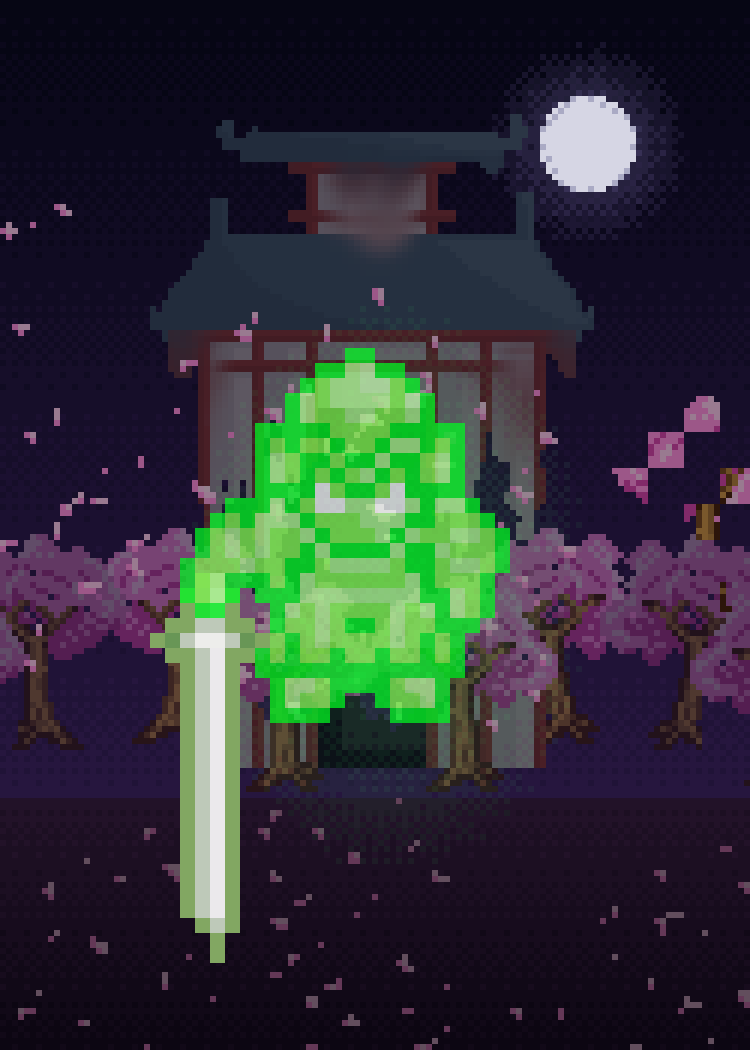
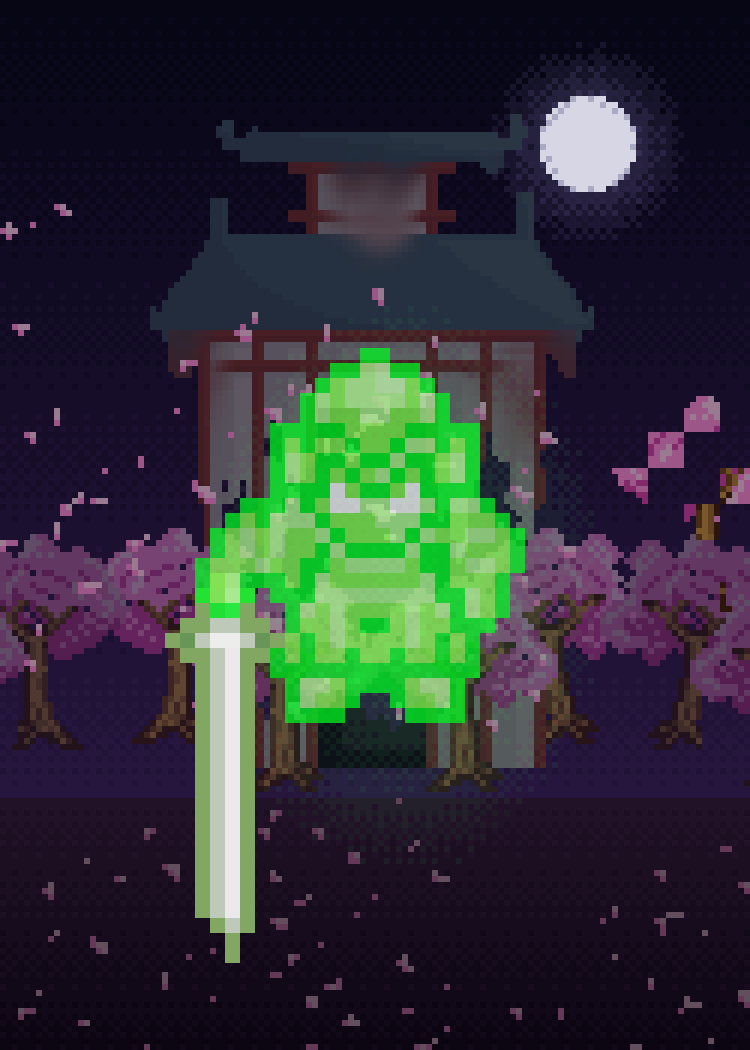
Runde 6: Überarbeitung nach Nutzer-Feedback (Zwischenstand)
Claude-Session: https://claude.ai/code/session_01TEnvTzH2xD44R6Unjv7vDo

Changed region(s): [[0.184, 0.3352, 0.7053, 0.9143]]

diff --git a/data/sleeve-proposals/runde6/generator/s12_crystal_eve.py b/data/sleeve-proposals/runde6/generator/s12_crystal_eve.py
@@ -57,7 +57,18 @@ from PIL import Image
 _anim = np.array(Image.open('/home/user/PixelParties/data/hero-animations/mary-crestmas.png').convert('RGBA'))
 _f0 = _anim[:, 0:40].copy()
 _f0[..., 3] = np.where(_f0[..., 3] >= 128, 255, 0)
-mary = sorted(parts(_f0, dil=1), key=lambda p: -(p[..., 3] > 0).sum())[0]
+import cv2
+_m = (_f0[..., 3] > 0).astype(np.uint8)
+_n, _lab, _st, _ = cv2.connectedComponentsWithStats(_m, connectivity=8)
+_big = 1 + int(np.argmax(_st[1:, cv2.CC_STAT_AREA]))
+bx0, by0, bw, bh = _st[_big, :4]
+_keep = np.zeros(_m.shape, bool)
+for k in range(1, _n):                         # Hauptfigur + anliegende Teile (Mützen-Bommel), keine Noten
+    x, y, w, h = _st[k, :4]
+    if x >= bx0 - 2 and x + w <= bx0 + bw + 2 and y >= by0 - 3 and y + h <= by0 + bh + 2: _keep |= _lab == k
+_f0[~_keep, 3] = 0
+ys, xs = np.nonzero(_keep)
+mary = _f0[ys.min():ys.max() + 1, xs.min():xs.max() + 1]
 _cache = os.path.join(os.path.dirname(os.path.abspath(__file__)), 'sprites6', 'o12_mary.png')
 Image.fromarray(mary).save(_cache)
 well = sprite('o12_well16', 'MotiveBritain', [16])        # Brunnen ohne Funkeln
@@ -154,9 +165,9 @@ wcx = WX3 + (wcols.min() + wcols.max() + 1) / 2
 wby = WY3 + well.shape[0] - 3
 for y in range(int(wby - 4), int(wby + 4)):
     for x in range(W3):
-        d = ((x + 0.5 - wcx) / 27) ** 2 + ((y + 0.5 - wby) / 3.6) ** 2
+        d = ((x + 0.5 - wcx) / 23) ** 2 + ((y + 0.5 - wby) / 3.2) ** 2
         if d < 1:
-            mid[y, x, :3] = (26, 34, 70); mid[y, x, 3] = 110
+            mid[y, x, :3] = (26, 34, 70); mid[y, x, 3] = 90
 put(mid, well, WX3, WY3)
 sm = sparks[..., 3] > 0
 for (j, i) in zip(*np.nonzero(sm)):

diff --git a/data/sleeve-proposals/runde6/generator/s24_afterimage.py b/data/sleeve-proposals/runde6/generator/s24_afterimage.py
@@ -121,7 +121,7 @@ blit(cv, bg, 2)
 # ---------------------------------------------------------------- Daiyo 5×
 k = 5
 dw, dh = (X1 - X0) * k, (Y1 - Y0) * k
-DX, DY = 50, 116                           # Gesichtsmitte (Szene x = 122, zwischen den Augen) auf x = 375 von 750
+DX, DY = 55, 116                           # Gesichtsmitte (zwischen den Augen, Szene x = 121) auf x = 375 von 750
 # grüner Schein hinter Daiyo und auf dem Boden (Raster 2×, gedithert)
 gx, gy = (DX + 7 * k + 45) / 2, (DY + 80) / 2
 for y in range(GH):

diff --git a/data/sleeve-proposals/runde6/notes_H.md b/data/sleeve-proposals/runde6/notes_H.md
@@ -1,6 +1,6 @@
 # Notizen Block H (41–44)
 NN | English Name | Gegner | Held | Idee | Skalierung | Quellen | Rahmen
-41 | Rampart of Deri | Steam Dwarf Mines | Layn, Defender of Deri | Porträt über die Brüstung: Layn (Base, Krone mit Rubin und Quasten, Hände auf der Zinne) bewacht hinter der grauen Zinnenmauer seiner Karte die Minenhalle der Steam Dwarfs, die sich hinter ihm als eine Tiefe öffnet: vorn eine steinerne Förderbrücke mit Schienen, deren Pfeiler im Lavafluss am Grund stehen, darauf als Blickpunkt der Steam Dwarf Dragon Pilot (Cover); weiter hinten auf zwei versetzten Felsbänken Miner (bohrt über die Kante in den Fels) und Brewer mit aufsteigendem Dampf (überarbeitet nach Review) | Felswand, Felsbänke, Miner, Brewer, Dampf, Lavafluss 2×; Förderbrücke, Pfeiler, Dragon Pilot 3×; Layn + Brüstung 5× | MotiveDeri 250 „Layn“, 245 „Layn #1“, 246 „Zinnen“ (gegen Sichtbar #83 pixelgleich); MotiveSteamDwarfs 445 (Felswand-Kachel), 444 (Lava-Kachel), Miner [437–439], Brewer [440, 441], Dragon Pilot [429], Dampf 431 | Rahmen: industrial/iron/lava
+41 | Rampart of Deri | Steam Dwarf Mines | Layn, Defender of Deri | Porträt über die Brüstung: Layn (Base, Krone mit Rubin und Quasten, Hände auf der Zinne) bewacht hinter der grauen Zinnenmauer seiner Karte die Minenhalle der Steam Dwarfs, die sich hinter ihm als eine Tiefe öffnet: vorn eine steinerne Förderbrücke mit Schienen, deren Pfeiler im Lavafluss am Grund stehen, darauf als Blickpunkt der Steam Dwarf Dragon Pilot (Cover); weiter hinten auf zwei versetzten Felsbänken der Steam Dwarf Exterminator (sein Flammenstrahl schießt über die Kante hinab; statt des Miners, Nutzer-Feedback) und der Brewer mit aufsteigendem Dampf | Felswand, Felsbänke, Miner, Brewer, Dampf, Lavafluss 2×; Förderbrücke, Pfeiler, Dragon Pilot 3×; Layn + Brüstung 5× | MotiveDeri 250 „Layn“, 245 „Layn #1“, 246 „Zinnen“ (gegen Sichtbar #83 pixelgleich); MotiveSteamDwarfs 445 (Felswand-Kachel), 444 (Lava-Kachel), Exterminator [433, 434], Brewer [440, 441], Dragon Pilot [429], Dampf 431 | Rahmen: industrial/iron/lava
 42 | Sunforged Summit | Sun Fencer Frenzy | Taio, the Sun Fencer | Gegenlicht/Action: Taio steht im Morgengrauen auf dem Gipfel seines Vulkans, umgeben vom Flammenring seiner Base-Karte, und reckt The Sun Sword empor – die Klingenspitze sitzt genau vor der aufgehenden Sonne; unter seinen Füßen glüht der Riss des Mountain's Heart, auf zwei Felsnasen wachen die Wasserspeier mit roten Augen aus seiner Karte | Himmel, Sonne, Berge, Wasserspeier 2×; Taio mit Schwert, Faust, Flammenring (70 % Deckkraft) und Gipfelkegel 4× | MotiveHawaii 72 „Taio“, 71 (Sun Sword), 70 (Faust), 73 (Flammenring), 81 (Wasserspeier) – Sichtbar #30 (Ebene 69) | Rahmen: arch/bronze/amber
-43 | Apotheosis Steps | To Attain Divinity | Archibald, the Archmage | Nacht im Dschungel: Archibald steht auf dem Prozessionsweg zwischen zwei brennenden Kohlebecken; hinter den Baumkronen ragt die goldene Stufenpyramide auf, auf ihrer Spitze leuchtet die goldene Divinity-Gestalt, über ihr steigt geisterhaft der geflügelte Dschungelgott auf – das Ziel des Erzmagiers (kein Kirchenfenster) | Himmel, Geistergott, Pyramide, goldene Gestalt, Dschungel 2×; Archibald, Kohlebecken, Weg 4× | Motive 436 „ARCHMAGE“ + 435 (Funkeln), gegen Sichtbar #43 pixelgleich; MotiveSteamDwarfs 248 (Geistergott, Divinity-Karte), 252 „Teocuitlatl“, 305 „TEMPEL“, 284 (Kohlebecken) | Rahmen: meander/gold/jade/amethyst
+43 | Wheel of Wisdom | To Attain Divinity | Archibald, the Archmage | Neu nach Nutzer-Feedback, ganz aus seinem Kartenmotiv gebaut: Archibald steht in seiner dämmrigen Halle vor der großen Glasrosette seiner Base-Karte; in den fünf farbigen Feldern erscheinen wie auf der Karte die fünf Gestalten (Schattengestalt, rothaarige Kämpferin, braunhaarige Schützin, Mann mit Hut, Hexe), ihr buntes Licht fällt auf den Dielenboden zu seinen Füßen | Mauer, Rosette (152 px), fünf Gestalten 2×; Archibald, Dielenboden, Lichtfleck 5× | Motive 436 „ARCHMAGE“ + 435 (Funkeln), gegen Sichtbar #43 pixelgleich; Rosette 441 (Glas), 440 (Bleiruten), 439/444 (Ring, Speichen); 438 (die fünf Gestalten); Farben des Hallenparketts aus Sichtbar #43 | Rahmen: filigree/gothic/amethyst
 44 | Sakura Mirror | Grand Rebellion! | Champion, the Stormbringer | Ruhemoment/Spiegelung: Champion steht in der Abenddämmerung auf einem Trittstein im Fluss, das Wasser spiegelt ihn, den rosa Kirschhain und den Himmel; am Ufer wartet der Rebelliokai Courtly Kirin (Cover), über dem Hain gleitet der Terror Tengu mit Fächer heran – die Rebellen sammeln sich um ihren Anführer (kein Tornado, keine Karten) | Himmel, Hain, Kirin, Tengu, fernes Wasser, Blüten 2×; Champion, Trittstein, seine Spiegelung, Wellen 4× | MotiveJapan 121 „Champion“ + 119/120 (Schwerthand/Schwert), 166 „Kirin“, 200 (Tengu), 181 (Kirschbäume), 142 „KIRSCHBLÜTEN“ | Rahmen: wave/lacquer/rose

diff --git a/data/sleeve-proposals/runde6/concepts.md b/data/sleeve-proposals/runde6/concepts.md
@@ -7,7 +7,7 @@
 30 | Severed Spell | Action im Thronsaal seiner Karte: Null ist vom leeren Thron aufgestanden und sticht mit der violetten Null-Klinge in einen Feuerzauber, der entzweireißt und in Null-Staub zerfällt
 41 | Rampart of Deri | Porträt über die Brüstung: Layn (Base, Krone mit Quasten, Hände auf der Zinne) steht groß hinter der grauen Zinnenmauer von Deri; hinter ihm öffnet sich die Lavamine der Steam Dwarfs (Dragon Pilot, Miner, Brewer auf einer Galerie) mit aufsteigenden Dampfsäulen und glühendem Lavasee – der Verteidiger bewacht die Mine
 42 | Sunforged Summit | Silhouette/Gegenlicht, Action: Taio (Base, Flammenaura) steht breitbeinig auf dem glühenden Gipfel des Berges, die Spitze der erhobenen Sun Sword trifft genau die aufgehende Sonnenscheibe; links und rechts am Hang die zwei Wasserspeier seiner Karte, im Fels die glühenden Adern des Mountain's Heart
-43 | Apotheosis Steps | Ritual/Nachtszene: Archibald steht auf dem Prozessionsweg zwischen den zwei Kohlebecken der Divinity-Karte; hinter den Dschungelkronen ragt die goldene Stufenpyramide auf, auf ihrer Spitze die goldene Divinity-Gestalt, darüber steigt geisterhaft der geflügelte Dschungelgott auf
+43 | Wheel of Wisdom | (neu nach Feedback) Archibald steht in seiner dämmrigen Halle vor der großen Glasrosette seiner Karte; in den fünf Feldern die fünf Gestalten seines Kartenmotivs, ihr buntes Licht fällt auf den Boden zu seinen Füßen
 44 | Sakura Mirror | Spiegelung im Wasser: Champion (Base, Schwert) steht auf einem Trittstein im Fluss vor dem Kirschblütenhain, unter ihm seine Spiegelung; am Ufer wartet der Courtly Kirin, über dem Hain gleitet der Terror Tengu heran – die Rebelliokai sammeln sich (kein Tornado, keine Karten)
 19 | Hellgate Spring | Beschwörung/Tiefenstaffelung: Mizune (Base, in ihrer Schaumsäule) steigt aus stillem, dunklem Wasser auf; hinter ihr hat sich der Demon's Gate geöffnet – der geflügelte rote Dämon tritt aus dem glühenden Rautentor unter rotem Höllenhimmel – und das Wasser spiegelt Tor und Glut
 20 | Stormward Drift | Ruhemoment vor dem Sturm, asymmetrisch: Tarleinn steht mit seinen Herzen und Noten am Grasrand seiner schwebenden Insel (Kartenstelle: schräge Felskante, Säule mit Statue); über ihm ballt sich der Gathering Storm aus grauen Wolkenbänken, drei Blitze (3 Ziele) zucken in die Tiefe
